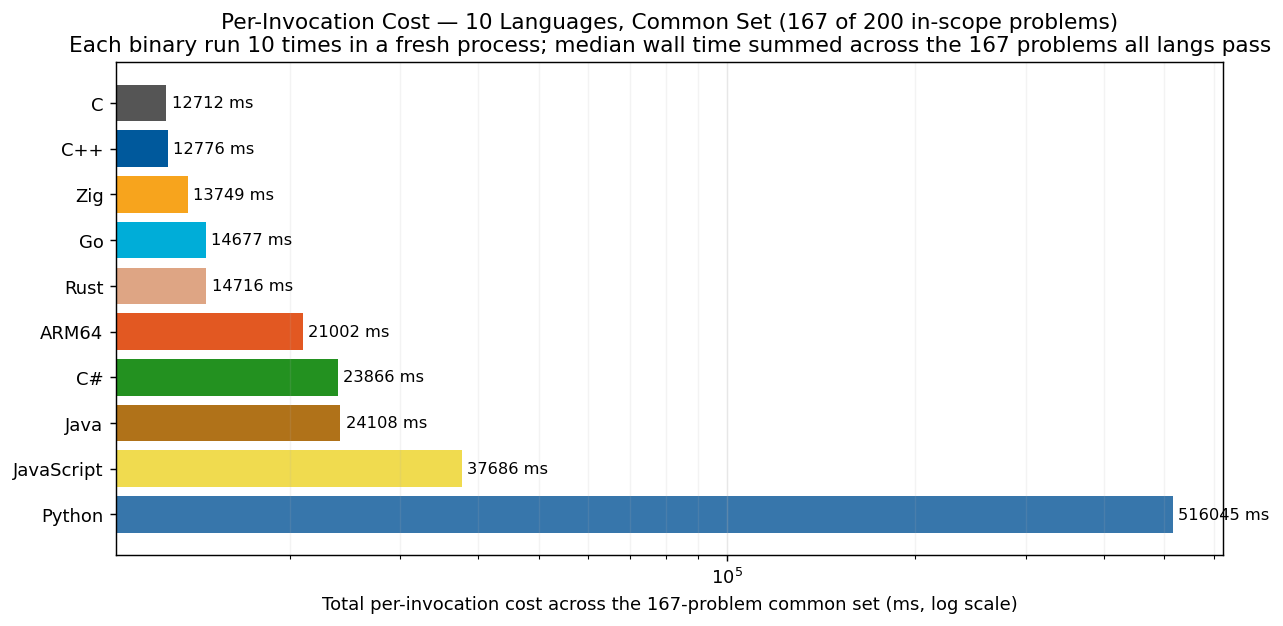
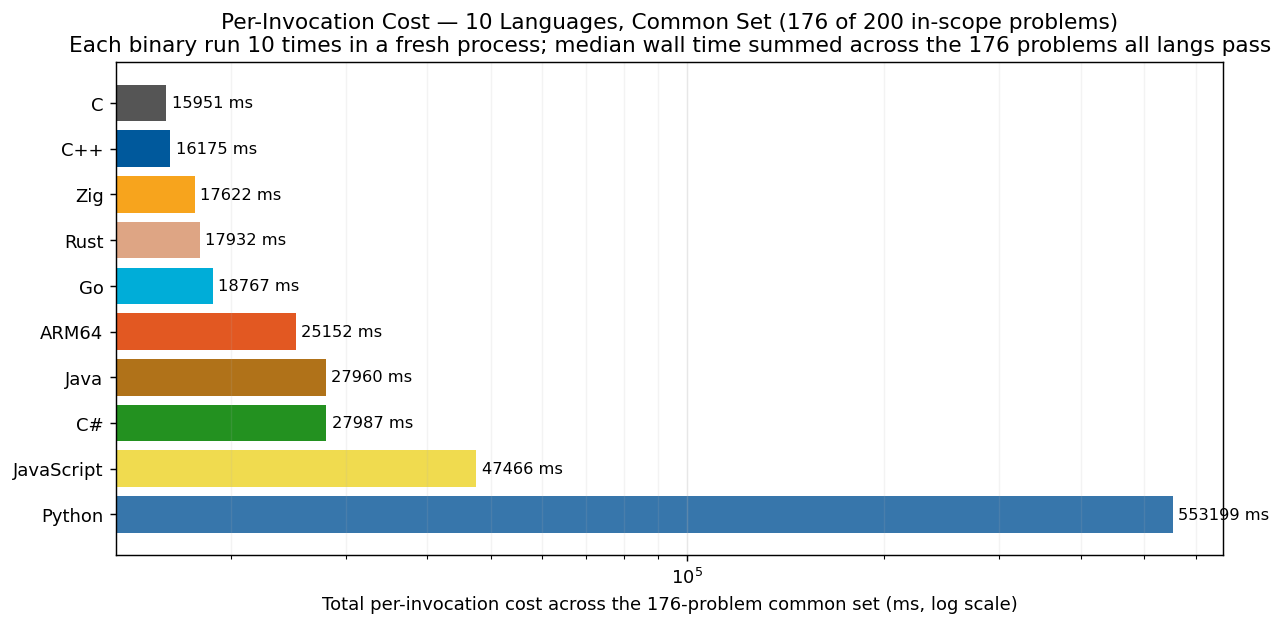
publish: +32 cells (B3 C17-C21); common-set 167→176, python at 189/200

diff --git a/RESULTS.md b/RESULTS.md
@@ -1,37 +1,37 @@
 # Project Euler — Cross-Language Benchmarks
 
-> **Scope: 200 problems × 10 languages = 2000 cells, 1878 measured (93.9% coverage).**
-> The cross-language ranking below is computed over the **167-problem common set** (problems where every language has a passing measurement) — the apples-to-apples comparison surface.  Per-language coverage detail appears below the ranking.
+> **Scope: 200 problems × 10 languages = 2000 cells, 1910 measured (95.5% coverage).**
+> The cross-language ranking below is computed over the **176-problem common set** (problems where every language has a passing measurement) — the apples-to-apples comparison surface.  Per-language coverage detail appears below the ranking.
 > Growing carefully — each new problem and language is audited for state-leak
 > safety, verified for answer correctness, and added only when it cleanly fits the
 > measurement methodology.  See [JOURNEY.md](JOURNEY.md) for the full story of how
 > we got here, including the reset from 200+ problems back to a verified 10×10
 > core, then the disciplined expansion to today's 200-problem scope.
 
-## Per-Invocation Cost (Common Set, 167 of 200 problems)
+## Per-Invocation Cost (Common Set, 176 of 200 problems)
 
 We run each program 10 times in fresh OS processes (no warmup, no shared state).
 Each invocation pays full startup + algorithm cost — the cost a real CLI / cron /
 shell-loop user actually pays.  The median wall time across the 10 invocations is
-the headline per-problem number, and the table sums over the 167-problem
+the headline per-problem number, and the table sums over the 176-problem
 common set so partial-coverage languages aren't artificially "faster" than fully-
 covered ones.  Per-language individual coverage (which may be ≥ the common set) is
 shown in the coverage block further down.
 
 ![Per-Invocation Cost](charts/per_iter_total.png)
 
-| Rank | Language | Total (167-problem common set) | Lines of code | vs Fastest |
+| Rank | Language | Total (176-problem common set) | Lines of code | vs Fastest |
 |------|----------|--------------------:|--------------:|-----------:|
-| 1 | **C** | 12.71 s | 11,097 | 1.00× |
-| 2 | **C++** | 12.78 s | 7,927 | 1.01× |
-| 3 | **Zig** | 13.75 s | 10,509 | 1.08× |
-| 4 | **Go** | 14.68 s | 10,017 | 1.15× |
-| 5 | **Rust** | 14.72 s | 8,900 | 1.16× |
-| 6 | **ARM64** | 21.00 s | 31,719 | 1.65× |
-| 7 | **C#** | 23.87 s | 8,286 | 1.88× |
-| 8 | **Java** | 24.11 s | 8,121 | 1.90× |
-| 9 | **JavaScript** | 37.69 s | 6,956 | 2.96× |
-| 10 | **Python** | 516.04 s | 6,343 | 40.60× |
+| 1 | **C** | 15.95 s | 11,703 | 1.00× |
+| 2 | **C++** | 16.17 s | 8,498 | 1.01× |
+| 3 | **Zig** | 17.62 s | 11,195 | 1.10× |
+| 4 | **Rust** | 17.93 s | 9,544 | 1.12× |
+| 5 | **Go** | 18.77 s | 10,741 | 1.18× |
+| 6 | **ARM64** | 25.15 s | 33,921 | 1.58× |
+| 7 | **Java** | 27.96 s | 8,705 | 1.75× |
+| 8 | **C#** | 27.99 s | 8,874 | 1.75× |
+| 9 | **JavaScript** | 47.47 s | 7,533 | 2.98× |
+| 10 | **Python** | 553.20 s | 6,934 | 34.68× |
 
 ## Speed vs Code Size
 
@@ -212,10 +212,10 @@ fixed tier order (native → managed → interpreted).
 | **p123** | 3.98 ms | 4.86 ms | 4.53 ms | 1.66 ms | 2.16 ms | 3.15 ms | 5.94 ms | 10.73 ms | 749.8 µs | 74.71 ms |
 | **p124** | 7.84 ms | 7.25 ms | 5.40 ms | 2.45 ms | 6.86 ms | 13.01 ms | 9.55 ms | 17.27 ms | 16.67 ms | 36.21 ms |
 | **p125** | 3.11 ms | 2.60 ms | 2.37 ms | 3.06 ms | 2.45 ms | 3.09 ms | 3.88 ms | 6.12 ms | 63.70 ms | 62.63 ms |
-| **p126** | 3.42 ms | 2.39 ms | 2.18 ms | 2.45 ms | 2.30 ms | 4.63 ms | 7.81 ms | 8.90 ms | 12.92 ms | — |
+| **p126** | 3.42 ms | 2.39 ms | 2.18 ms | 2.45 ms | 2.30 ms | 4.63 ms | 7.81 ms | 8.90 ms | 12.92 ms | 932.49 ms |
 | **p127** | 37.07 ms | 31.41 ms | — | — | 29.07 ms | 34.20 ms | — | — | — | 1.10 s |
 | **p128** | 8.53 ms | 6.97 ms | — | — | 6.63 ms | 6.94 ms | — | — | — | 272.33 ms |
-| **p129** | 9.69 ms | 10.41 ms | 9.93 ms | 10.34 ms | 12.54 ms | 9.74 ms | 10.37 ms | 10.28 ms | 10.59 ms | — |
+| **p129** | 9.69 ms | 10.41 ms | 9.93 ms | 10.34 ms | 12.54 ms | 9.74 ms | 10.37 ms | 10.28 ms | 10.59 ms | 139.64 ms |
 | **p130** | 31.49 ms | 31.39 ms | — | — | 37.93 ms | 31.48 ms | — | — | — | 415.08 ms |
 | **p131** | 42.0 µs | 31.5 µs | 40.0 µs | 38.4 µs | 31.2 µs | 32.1 µs | 295.4 µs | 245.6 µs | 224.1 µs | 1.20 ms |
 | **p132** | 3.40 ms | 3.26 ms | 4.12 ms | 3.30 ms | 4.45 ms | 3.38 ms | 4.41 ms | 28.82 ms | 12.93 ms | — |
@@ -225,9 +225,9 @@ fixed tier order (native → managed → interpreted).
 | **p136** | 640.13 ms | 494.10 ms | 446.25 ms | 555.54 ms | 490.94 ms | 533.67 ms | 654.83 ms | 669.97 ms | 963.87 ms | — |
 | **p137** | 0 ns | 125 ns | 291 ns | 42 ns | 125 ns | 1.8 µs | 75.0 µs | 2.7 µs | 24.5 µs | 5.7 µs |
 | **p138** | 0 ns | 42 ns | 42 ns | 42 ns | 83 ns | 1.5 µs | 52.4 µs | 1.8 µs | 11.8 µs | 2.9 µs |
-| **p139** | 235.19 ms | 227.09 ms | 224.31 ms | 224.24 ms | 302.89 ms | 236.94 ms | 264.99 ms | 258.89 ms | 273.44 ms | — |
+| **p139** | 235.19 ms | 227.09 ms | 224.31 ms | 224.24 ms | 302.89 ms | 236.94 ms | 264.99 ms | 258.89 ms | 273.44 ms | 2.13 s |
 | **p140** | 8.0 µs | 3.4 µs | 4.5 µs | 5.6 µs | 2.2 µs | 7.1 µs | 1.29 ms | 167.7 µs | 160.0 µs | — |
-| **p141** | 1.48 s | 1.45 s | — | — | 1.97 s | 1.49 s | — | — | — | 9.00 s |
+| **p141** | 1.48 s | 1.45 s | 1.44 s | 1.44 s | 1.97 s | 1.49 s | 1.60 s | 1.60 s | 1.76 s | 9.00 s |
 | **p142** | 2.26 ms | 2.77 ms | 2.05 ms | 2.60 ms | 2.48 ms | 2.16 ms | 2.88 ms | 6.01 ms | 9.04 ms | 110.37 ms |
 | **p143** | 47.42 ms | 18.18 ms | — | — | 19.49 ms | 28.62 ms | — | — | — | — |
 | **p144** | 14.0 µs | 11.6 µs | 9.1 µs | 12.5 µs | 13.0 µs | 13.3 µs | 142.6 µs | 59.2 µs | 142.8 µs | 134.1 µs |
@@ -235,25 +235,25 @@ fixed tier order (native → managed → interpreted).
 | **p146** | 9.47 s | 2.85 s | 2.89 s | 2.94 s | 2.77 s | 2.93 s | 7.41 s | 4.09 s | 9.57 s | 19.21 s |
 | **p147** | 5.09 ms | 1.43 ms | 1.99 ms | 6.17 ms | 2.63 ms | 3.34 ms | 4.80 ms | 7.64 ms | 9.26 ms | 528.01 ms |
 | **p148** | 0 ns | 42 ns | 167 ns | 3.2 µs | 42 ns | 5.0 µs | 128.7 µs | 3.1 µs | 37.2 µs | 8.1 µs |
-| **p149** | 42.95 ms | 44.93 ms | — | — | 48.34 ms | 52.98 ms | — | — | — | — |
+| **p149** | 42.95 ms | 44.93 ms | — | — | 48.34 ms | 52.98 ms | — | — | — | 2.01 s |
 | **p150** | 127.03 ms | 158.85 ms | 158.33 ms | 179.99 ms | 123.28 ms | 226.44 ms | 232.78 ms | 242.33 ms | 553.92 ms | 16.64 s |
 | **p151** | 11.0 µs | 1.9 µs | 2.7 µs | 3.6 µs | 1.8 µs | 3.9 µs | 605.3 µs | 52.2 µs | 83.0 µs | 41.8 µs |
-| **p152** | 1.62 s | 783.50 ms | — | — | 766.73 ms | 1.22 s | — | — | — | 815.61 ms |
+| **p152** | 1.62 s | 783.50 ms | 754.11 ms | 707.69 ms | 766.73 ms | 1.22 s | 1.01 s | 887.04 ms | 5.66 s | 815.61 ms |
 | **p153** | 2.41 s | 2.38 s | 2.39 s | 2.31 s | 3.15 s | 2.43 s | 2.74 s | 2.45 s | 7.09 s | 32.80 s |
 | **p154** | 3.47 s | 2.68 s | 2.69 s | 4.04 s | 3.10 s | 3.92 s | 5.31 s | 6.20 s | 9.36 s | 292.18 s |
 | **p155** | 811.52 ms | 598.02 ms | 611.56 ms | 1.10 s | 612.28 ms | 837.06 ms | 1.31 s | 3.06 s | 982.12 ms | 7.34 s |
-| **p156** | 143.76 ms | 90.24 ms | — | — | 77.07 ms | 126.54 ms | — | — | — | — |
+| **p156** | 143.76 ms | 90.24 ms | — | — | 77.07 ms | 126.54 ms | — | — | — | 7.37 s |
 | **p157** | 6.53 ms | 5.66 ms | 6.12 ms | 5.60 ms | 4.87 ms | 5.30 ms | 7.18 ms | 6.99 ms | 8.91 ms | 234.05 ms |
 | **p158** | 0 ns | 41 ns | 42 ns | 125 ns | 42 ns | 1.2 µs | 73.9 µs | 3.3 µs | 18.1 µs | 7.7 µs |
-| **p159** | 13.19 ms | 19.29 ms | — | — | 12.28 ms | 19.70 ms | — | — | — | — |
+| **p159** | 13.19 ms | 19.29 ms | — | — | 12.28 ms | 19.70 ms | — | — | — | 869.70 ms |
 | **p160** | 287.0 µs | 245.7 µs | 246.0 µs | 206.0 µs | 309.5 µs | 248.3 µs | 1.10 ms | 1.59 ms | 4.22 ms | 3.07 ms |
 | **p161** | 47.17 ms | 29.87 ms | — | — | 27.07 ms | 46.05 ms | — | — | — | 2.07 s |
 | **p162** | 0 ns | 41 ns | 42 ns | 1.2 µs | 42 ns | 8.0 µs | 2.16 ms | 816.2 µs | 28.7 µs | 9.3 µs |
-| **p163** | 150.42 ms | 115.47 ms | 125.49 ms | 145.47 ms | 144.29 ms | 167.05 ms | 318.99 ms | 243.46 ms | 543.77 ms | — |
+| **p163** | 150.42 ms | 115.47 ms | 125.49 ms | 145.47 ms | 144.29 ms | 167.05 ms | 318.99 ms | 243.46 ms | 543.77 ms | 2.71 s |
 | **p164** | 6.0 µs | 5.8 µs | 4.6 µs | 6.8 µs | 5.2 µs | 6.8 µs | 595.1 µs | 139.9 µs | 261.8 µs | 333.1 µs |
 | **p165** | 660.91 ms | 607.31 ms | 553.40 ms | 418.99 ms | 608.29 ms | 879.32 ms | 743.63 ms | 1.88 s | 2.69 s | 6.95 s |
 | **p166** | 171.29 ms | 24.53 ms | — | — | 17.02 ms | 162.78 ms | — | — | — | — |
-| **p167** | 129.05 ms | 122.85 ms | — | — | 138.54 ms | 130.05 ms | — | — | — | — |
+| **p167** | 129.05 ms | 122.85 ms | — | — | 138.54 ms | 130.05 ms | — | — | — | 7.37 s |
 | **p168** | 32.0 µs | 25.5 µs | 21.7 µs | 31.5 µs | 27.3 µs | 33.1 µs | 248.5 µs | 197.8 µs | 274.0 µs | 533.3 µs |
 | **p169** | 1.0 µs | 167 ns | 208 ns | 2.0 µs | 208 ns | 10.7 µs | 411.8 µs | 533.3 µs | 40.0 µs | 13.9 µs |
 | **p170** | 39.50 s | 39.45 s | 38.41 s | — | 38.48 s | 40.38 s | — | — | — | — |
@@ -265,24 +265,24 @@ fixed tier order (native → managed → interpreted).
 | **p176** | 285.0 µs | 16.5 µs | 11.2 µs | 27.2 µs | 62.0 µs | 40.1 µs | 733.4 µs | 346.5 µs | 391.3 µs | 392.5 µs |
 | **p177** | 6.55 s | 4.57 s | 4.60 s | 9.18 s | 5.07 s | 10.05 s | 6.75 s | 11.44 s | 15.08 s | — |
 | **p178** | 351.0 µs | 589.2 µs | 481.2 µs | 580.0 µs | 509.8 µs | 536.4 µs | 1.91 ms | 3.16 ms | 6.78 ms | 11.14 ms |
-| **p179** | 192.94 ms | 260.81 ms | 245.28 ms | 244.51 ms | 281.21 ms | 441.64 ms | 379.50 ms | 307.46 ms | 16.82 ms | — |
+| **p179** | 192.94 ms | 260.81 ms | 245.28 ms | 244.51 ms | 281.21 ms | 441.64 ms | 379.50 ms | 307.46 ms | 16.82 ms | 11.61 s |
 | **p180** | 9.13 ms | 22.94 ms | — | — | 23.36 ms | 29.96 ms | — | — | — | 138.05 ms |
 | **p181** | 3.46 ms | 7.51 ms | 8.95 ms | 9.26 ms | 7.99 ms | 17.16 ms | 22.49 ms | 29.97 ms | 5.8 µs | 1.45 s |
-| **p182** | 203.40 ms | 202.46 ms | — | — | 278.88 ms | 206.15 ms | — | — | — | — |
+| **p182** | 203.40 ms | 202.46 ms | — | — | 278.88 ms | 206.15 ms | — | — | — | 421.37 ms |
 | **p183** | 936.0 µs | 735.8 µs | 1.02 ms | 714.2 µs | 828.7 µs | 867.2 µs | 1.44 ms | 1.97 ms | 1.39 ms | 4.12 ms |
 | **p184** | 2.83 ms | 3.61 ms | 3.36 ms | 2.03 ms | 2.52 ms | 5.85 ms | 6.29 ms | 13.92 ms | 12.33 ms | 56.41 ms |
 | **p185** | 94.79 ms | 219.9 µs | — | — | 47.87 ms | 25.32 ms | — | — | — | 967.15 ms |
-| **p186** | 32.91 ms | 39.25 ms | — | — | 44.76 ms | 76.42 ms | — | — | — | — |
-| **p187** | 397.35 ms | 431.12 ms | — | — | 366.35 ms | 398.51 ms | — | — | — | — |
+| **p186** | 32.91 ms | 39.25 ms | — | — | 44.76 ms | 76.42 ms | — | — | — | 1.71 s |
+| **p187** | 397.35 ms | 431.12 ms | 390.52 ms | 353.55 ms | 366.35 ms | 398.51 ms | 448.70 ms | 464.09 ms | 514.60 ms | — |
 | **p188** | 6.0 µs | 2.8 µs | 3.4 µs | 3.4 µs | 3.2 µs | 22.2 µs | 169.0 µs | 17.1 µs | 72.8 µs | 33.6 µs |
 | **p189** | 116.94 ms | 133.45 ms | 130.56 ms | 147.60 ms | 170.35 ms | 313.10 ms | 435.33 ms | 335.28 ms | 609.88 ms | — |
 | **p190** | 2.0 µs | 1.3 µs | 1.3 µs | 1.1 µs | 1.3 µs | 4.0 µs | 86.2 µs | 20.2 µs | 29.4 µs | 28.2 µs |
 | **p191** | 1.0 µs | 792 ns | 666 ns | 833 ns | 792 ns | 2.5 µs | 496.6 µs | 19.8 µs | 67.6 µs | 44.6 µs |
 | **p192** | 19.04 ms | 18.85 ms | — | — | 29.24 ms | 48.78 ms | — | — | — | 425.42 ms |
-| **p193** | 309.78 ms | 251.43 ms | 262.41 ms | 306.14 ms | 255.11 ms | 358.61 ms | 321.62 ms | 324.36 ms | 1.21 s | — |
+| **p193** | 309.78 ms | 251.43 ms | 262.41 ms | 306.14 ms | 255.11 ms | 358.61 ms | 321.62 ms | 324.36 ms | 1.21 s | 8.34 s |
 | **p194** | 4.0 µs | 1.8 µs | 2.3 µs | 2.3 µs | 4.7 µs | 3.7 µs | 323.8 µs | 46.2 µs | 204.3 µs | 6.3 µs |
 | **p195** | 233.82 ms | 229.28 ms | 226.20 ms | 224.39 ms | 313.32 ms | 231.73 ms | 244.36 ms | 237.90 ms | 279.37 ms | 1.07 s |
-| **p196** | 151.93 ms | 137.90 ms | — | — | 140.27 ms | 159.54 ms | — | — | — | 1.47 s |
+| **p196** | 151.93 ms | 137.90 ms | 337.22 ms | 138.70 ms | 140.27 ms | 159.54 ms | 203.78 ms | 210.87 ms | 291.55 ms | 1.47 s |
 | **p197** | 29.0 µs | 22.0 µs | 18.2 µs | 22.5 µs | 41.5 µs | 77.4 µs | 104.4 µs | 295.8 µs | 128.2 µs | 96.6 µs |
 | **p198** | 131.20 ms | 136.01 ms | 113.03 ms | 121.75 ms | 418.20 ms | 311.53 ms | 467.51 ms | 608.24 ms | 786.18 ms | — |
 | **p199** | 2.05 ms | 694.6 µs | 743.6 µs | 593.3 µs | 649.2 µs | 1.63 ms | 1.85 ms | 1.41 ms | 3.42 ms | 27.38 ms |
